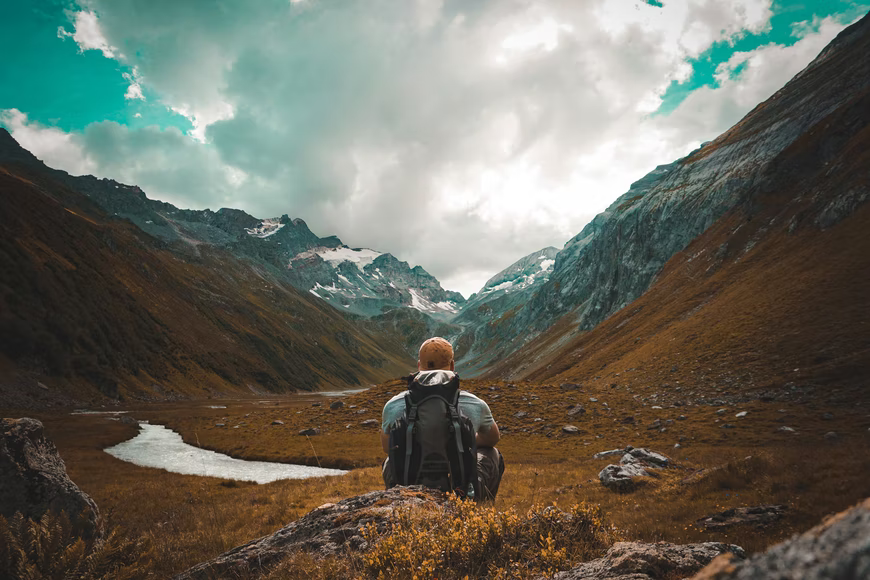
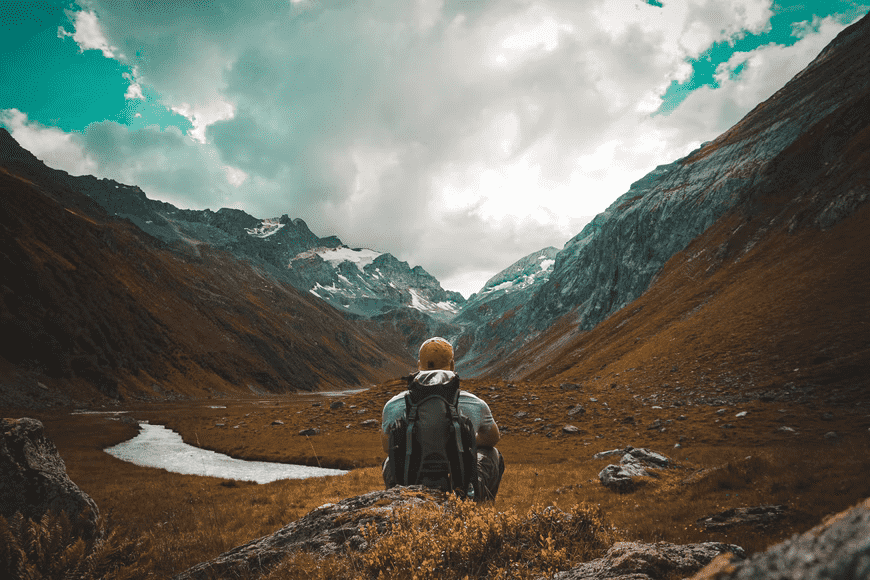
add compressed images

diff --git a/static/css/style.css b/static/css/style.css
@@ -27,7 +27,7 @@ html {
 }
 
 .hero-image{
-  background: url("/static/images/profile-image.avif") no-repeat center center fixed;
+  background: url("/static/images/profile-image.png") no-repeat center center fixed;
   -webkit-background-size: cover;
   -moz-background-size: cover;
   -o-background-size: cover;
